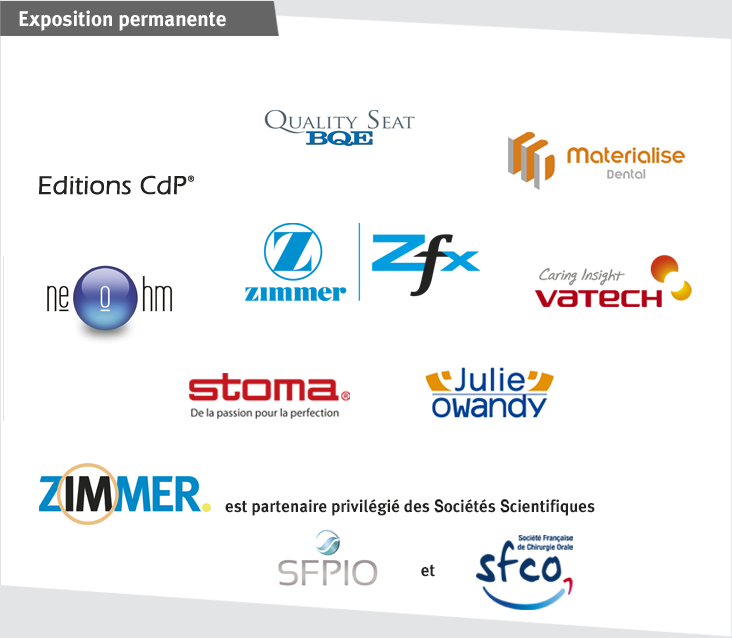
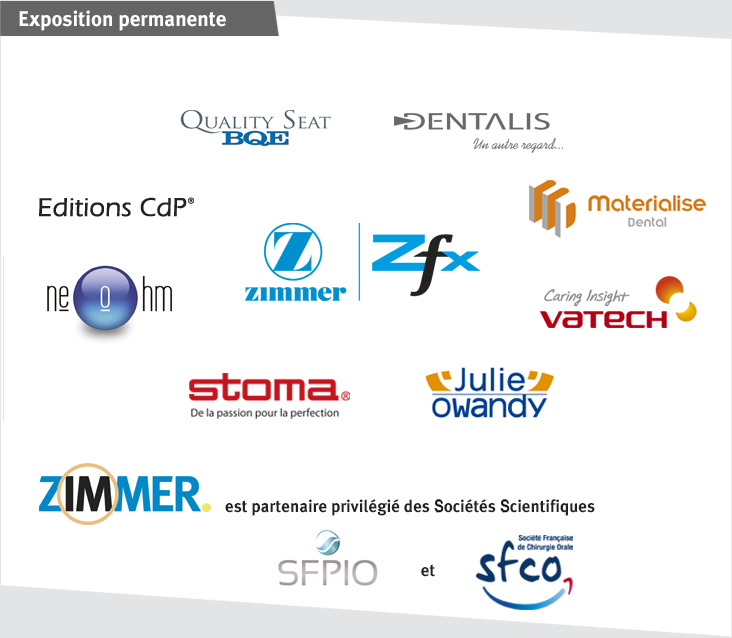
Update exposition page

Changed region(s): [[0.2404, 0.1787, 0.9617, 0.3871], [0.7213, 0.3871, 0.9617, 0.5361], [0.0301, 0.268, 0.2705, 0.3574]]

diff --git a/public/templates/journees/custom/exposition.html b/public/templates/journees/custom/exposition.html
@@ -4,29 +4,31 @@
 
 		<map name="map">
 
-			<area shape="rect" coords="250,100,425,150" href="http://www.bqergonomics.eu/en/" target="blank">
+           <area shape="rect" coords="170,103,339,153" href="http://www.bqergonomics.eu/en/" target="blank">
 
-			<area shape="rect" coords="493,121,708,200" href="http://www.materialisedental.com" target="blank">
+           <area shape="rect" coords="386,100,579,158" href="http://www.dentalisfrance.com" target="blank">
 
-			<area shape="rect" coords="521,250,702,316" href="http://www.vatech-france.fr" target="blank">
+           <area shape="rect" coords="517,167,719,243" href="http://www.materialisedental.com" target="blank">
 
-			<area shape="rect" coords="412,354,566,428" href="http://www.owandy.fr/#panoramique.php_imaxTouch3d.scr" target="blank">
+           <area shape="rect" coords="528,268,708,340" href="http://www.vatech-france.fr" target="blank">
 
-			<area shape="rect" coords="181,350,361,440" href="http://www.stoma.de/index.php?L=5" target="blank">
+           <area shape="rect" coords="412,354,566,428" href="http://www.owandy.fr/#panoramique.php_imaxTouch3d.scr" target="blank">
 
-			<area shape="rect" coords="32,255,190,345" href="http://www.neohm.fr" target="blank">
+           <area shape="rect" coords="181,350,361,440" href="http://www.stoma.de/index.php?L=5" target="blank">
 
-			<area shape="rect" coords="30,161,205,206" href="http://www.editionscdp.fr" target="blank">
+           <area shape="rect" coords="32,244,190,341" href="http://www.neohm.fr" target="blank">
 
-			<area shape="rect" coords="232,209,491,309" href="http://www.zimmerdental.fr/home.php?pg=1.2.6" target="blank">
+           <area shape="rect" coords="26,187,203,226" href="http://www.editionscdp.fr" target="blank">
 
-			<area shape="rect" coords="279,520,423,599" href="http://www.sfparo.org" target="blank">
+           <area shape="rect" coords="232,209,491,309" href="http://www.zimmerdental.fr/home.php?pg=1.2.6" target="blank">
 
-			<area shape="rect" coords="476,518,623,618" href="http://www.societechirorale.com" target="blank">
+           <area shape="rect" coords="279,520,423,599" href="http://www.sfparo.org" target="blank">
 
-			<area shape="rect" coords="28,445,221,532" href="http://www.zimmerdental.fr" target="blank">
+           <area shape="rect" coords="476,518,623,618" href="http://www.societechirorale.com" target="blank">
 
-		</map>
+           <area shape="rect" coords="28,445,221,532" href="http://www.zimmerdental.fr" target="blank">
+
+       </map>
 		
 	</div>
 	<div style="position:absolute;  top:255px; margin-left:125px; font-weight: bold; letter-spacing: 0px;">
